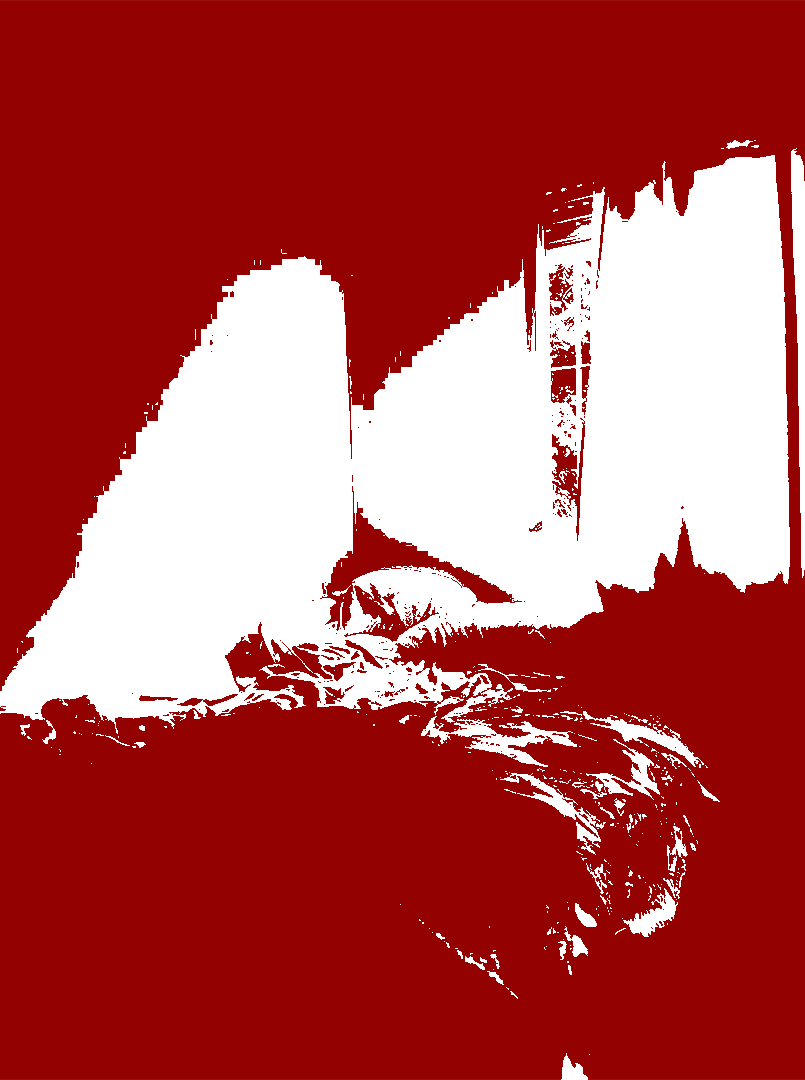
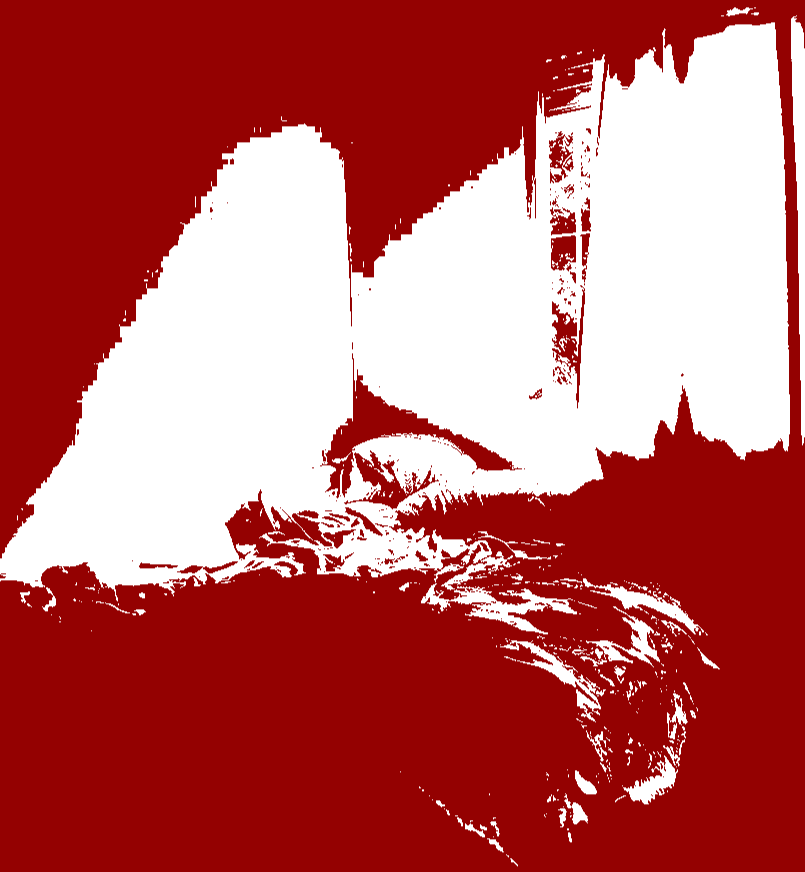
Nuevo index y primeras imagenes

diff --git a/css/estilos.css b/css/estilos.css
@@ -1,53 +1,48 @@
+/* ---------------- */
+/* PANTALLA DE INICIO */
+/* ---------------- */
+
+#inicio{
+
+    position:absolute;
+
+    width:100%;
+
+    height:100%;
+
+    background-color:#6f0303;
+
+    display:flex;
+
+    justify-content:flex-end;
+
+    align-items:flex-end;
+}
+
+
+#texto{
+
+    color:white;
+
+    font-family:monospace;
+
+    font-size:20px;
+
+    padding:40px;
+
+    cursor:pointer;
+}
+
+
+
 body{
 
     background-color:#df7db18a;
-    /* color de fondo general de toda la página */
 
     margin:0;
-    /* saca margen automático que agrega el navegador */
 
     padding:0;
-    /* saca padding automático */
 }
-
-/* ---------------- */
-/* PRIMERA PANTALLA */
-/* ---------------- */
-
-#contenedor{
-
-    display:flex;
-    /* activa flexbox */
-
-    /* flexbox siempre se pone en el elemento padre */
-    /* y ordena a sus hijos */
-
-    justify-content:center;
-    /* centra horizontalmente */
-
-    padding-top:220px;
-    /* baja el corazón desde arriba */
-}
-
-
-#contenedor img{
-
-    width:480px;
-    /* tamaño del corazón */
-
-    transition:0.3s;
-    /* duración de la animación hover */
-}
-
-
-#contenedor img:hover{
-
-    transform:scale(1.1);
-    /* agranda la imagen cuando pasás el mouse */
-}
-
-
-
 
 /* ---------------- */
 /* SEGUNDA PANTALLA */
@@ -110,28 +105,32 @@ body{
 
     position:absolute;
 
+    z-index:2;
+
     right:24px;
 
     bottom:24px;
 
-    width:62%;
+    width:70%;
 
     height:auto;
 
     display:block;
 }
 
-.foto-pareja{
+.foto-cables{
 
     position:absolute;
 
-    top:24px;
+    top:0;
 
-    left:24px;
+    left:0;
 
-    width:56%;
+    width:100%;
 
-    height:auto;
+    height:100%;
+
+    object-fit:cover;
 
     display:block;
 }

diff --git a/js/script.js b/js/script.js
@@ -1,15 +1,38 @@
 /* ---------------- */
+/* PANTALLA DE INICIO */
+/* ---------------- */
+
+const texto = document.getElementById("texto");
+
+if(texto){
+
+    /* estamos en index.html */
+
+    texto.textContent = "Te vi en línea pero no estabas ahí.";
+
+    texto.addEventListener("click", function(){
+
+        window.location.href = "pantalla2.html";
+
+    });
+
+}
+
+
+
+/* ---------------- */
 /* BLOQUE INICIAL */
 /* ---------------- */
 
-
-/* busca el div violeta dentro del HTML */
 const violeta = document.getElementById("violeta");
 
+if(violeta){
 
-/* agrega escucha de click */
-/* si hacés click llama a dividir() */
-violeta.addEventListener("click", dividir);
+    /* agrega escucha de click */
+    /* si hacés click llama a dividir() */
+    violeta.addEventListener("click", dividir);
+
+}
 
 
 

diff --git a/index.html b/index.html
@@ -2,14 +2,13 @@
 <html lang="es">
 <head>
     <meta charset="UTF-8">
-    <title>Una Última Oferta</title>
+    <title>La Violencia Invisible</title>
     <link href="css/estilos.css" rel="stylesheet">
 </head>
 <body>
-    <div id="contenedor">
-    <a href="pantalla2.html">
-  <img src="imagenes/corazon1.png" alt="corazón">
-</a>
+    <div id="inicio">
+        <div id="texto"></div>
     </div>
+    <script src="js/script.js"></script>
 </body>
 </html>

diff --git a/pantalla2.html b/pantalla2.html
@@ -10,7 +10,7 @@
 <div id="pantalla">
 
     <div id="rojo">
-        <img class="foto-pareja" src="imagenes/pareja.png" alt="pareja escuchando música con auriculares">
+        <img class="foto-cables" src="imagenes/cables.png" alt="cables">
         <img class="foto-cama" src="imagenes/cama.png" alt="cama vacía">
     </div>
 